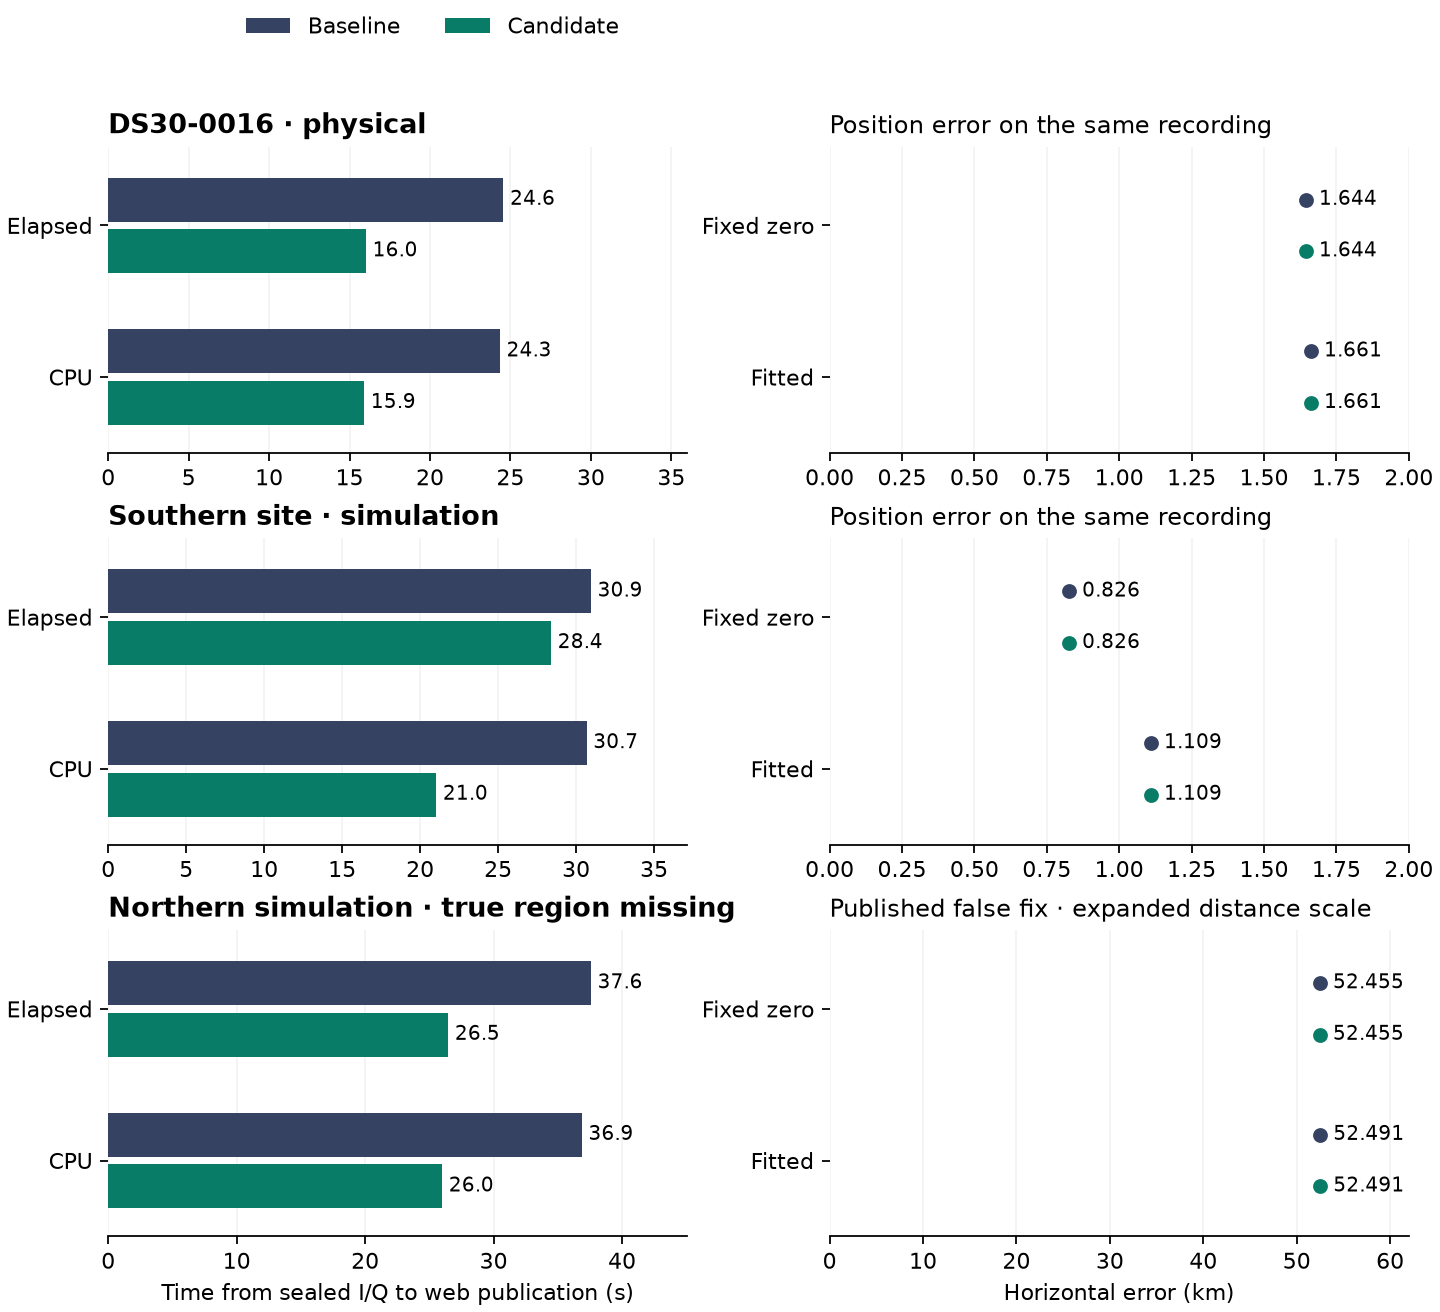
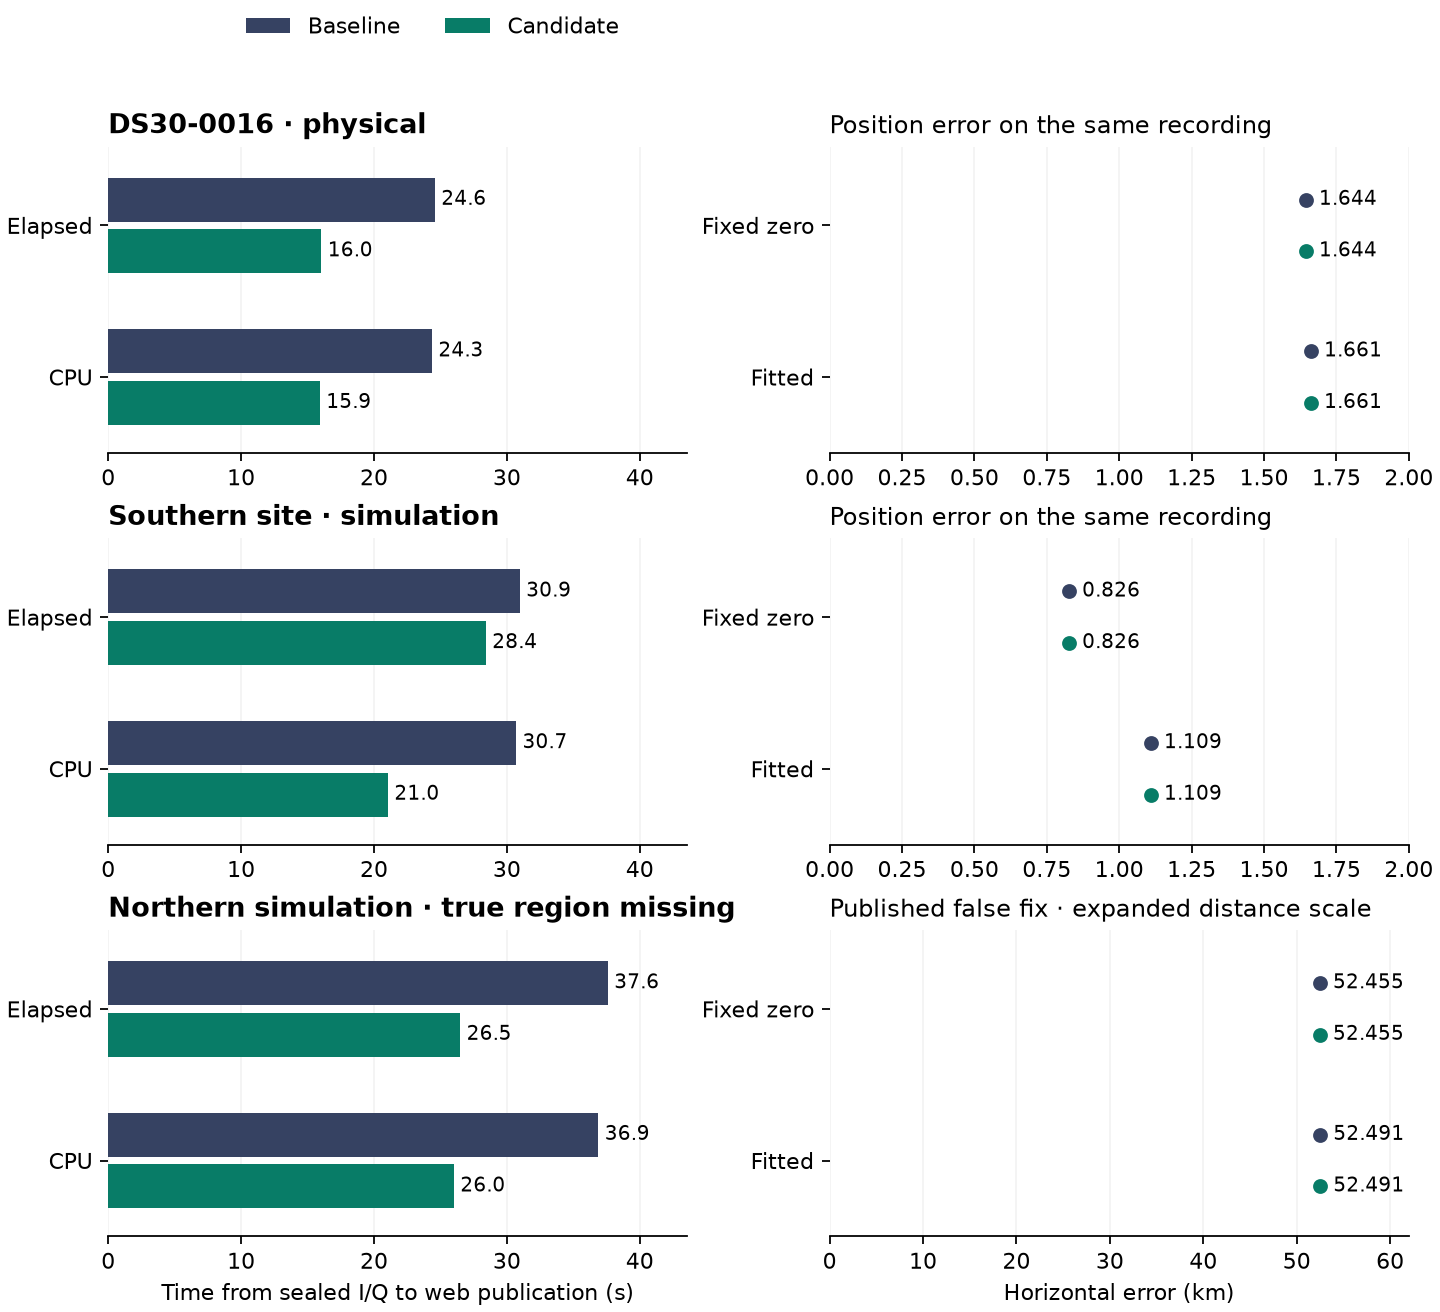
Use the same elapsed-time axis across physical and simulated sites

diff --git a/reports/ALGO08/single-core-2x/plot_shared_publication.py b/reports/ALGO08/single-core-2x/plot_shared_publication.py
@@ -25,6 +25,7 @@ def main():
         raise ValueError("Physical recording lacks an eligible survey")
     roof_truth = [roof["reference"][k] for k in ("latitude_deg", "longitude_deg")]
     fig, axes = plt.subplots(3, 2, figsize=(9, 8.2), layout="constrained")
+    longest_publication = 0
     for row, (key, site) in enumerate((("DS30-0016", "DS30-0016 · physical"),
                                        ("south", "Southern site · simulation"),
                                        ("north-far", "Northern simulation · true region missing"))):
@@ -47,7 +48,7 @@ def main():
                                 textcoords="offset points", va="center", fontsize=9)
         duration.set_yticks([1, 0], ["Elapsed", "CPU"])
         errors.set_yticks([1, 0], ["Fixed zero", "Fitted"])
-        duration.set_xlim(0, max(36, max(run["elapsed_s"] for run in pair["runs"].values()) * 1.2))
+        longest_publication = max(longest_publication, *(run["elapsed_s"] for run in pair["runs"].values()))
         errors.set_xlim(0, 62 if key == "north-far" else 2)
         errors.set_title("Published false fix · expanded distance scale" if key == "north-far"
                          else "Position error on the same recording", loc="left", fontsize=11)
@@ -56,6 +57,8 @@ def main():
             ax.set_axisbelow(True)
             ax.grid(axis="x", alpha=.15)
             ax.spines[["top", "right", "left"]].set_visible(False)
+    for duration in axes[:, 0]:
+        duration.set_xlim(0, longest_publication * 1.16)
     axes[-1, 0].set_xlabel("Time from sealed I/Q to web publication (s)")
     axes[-1, 1].set_xlabel("Horizontal error (km)")
     axes[0, 0].legend(loc="upper center", bbox_to_anchor=(.56, 1.49), ncol=2, frameon=False)
